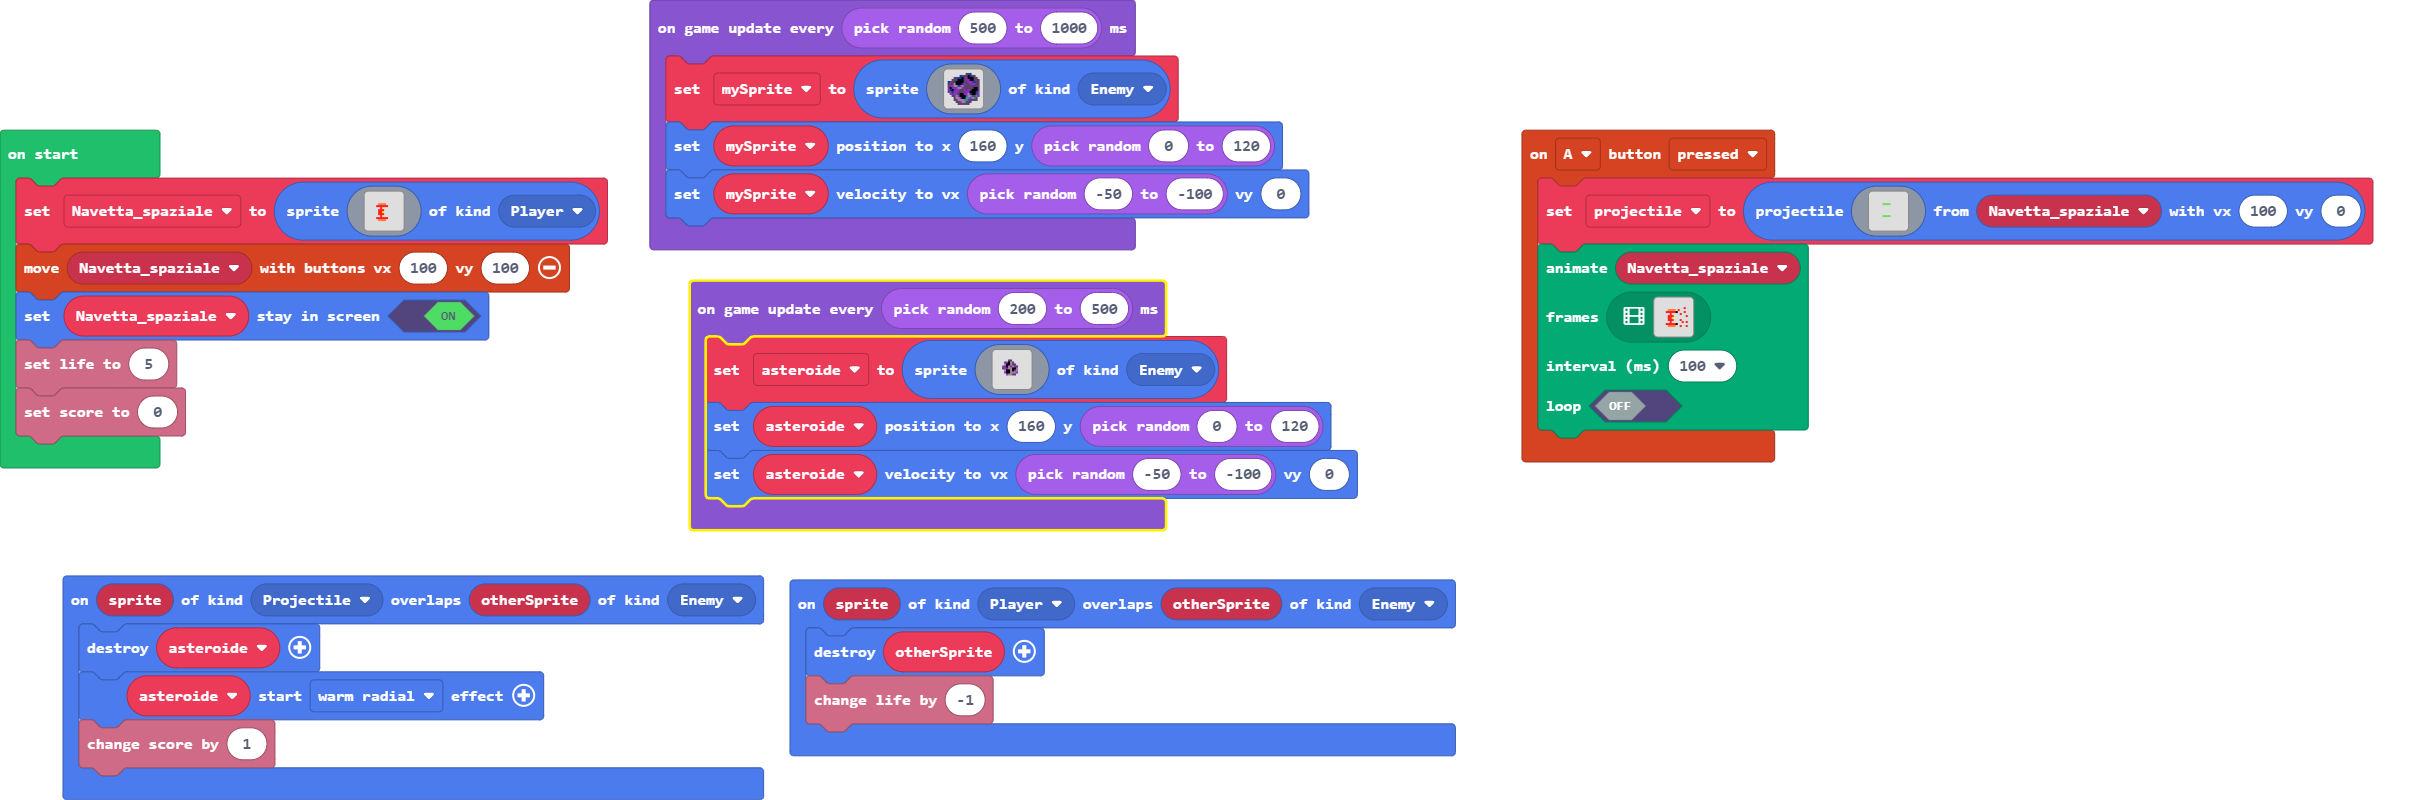
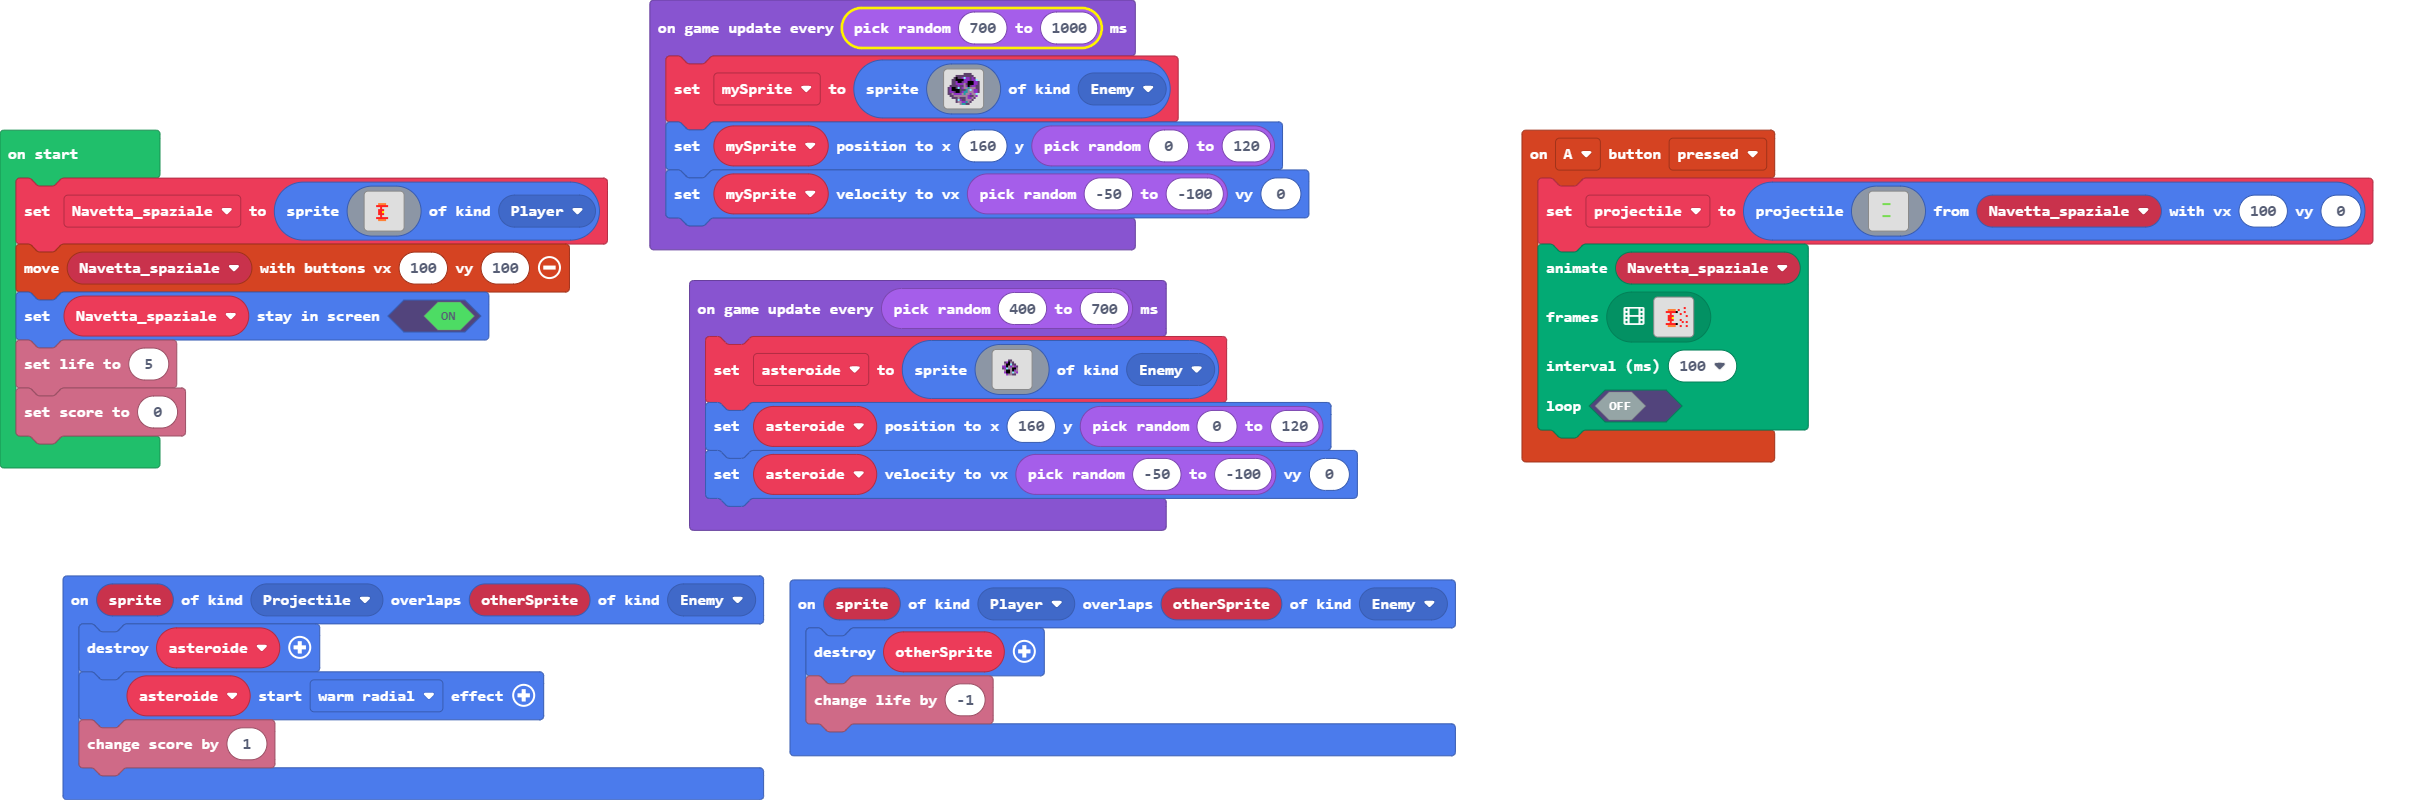
Update main.blocks, main.ts

diff --git a/main.ts b/main.ts
@@ -131,18 +131,18 @@ controller.moveSprite(Navetta_spaziale, 100, 100)
 Navetta_spaziale.setStayInScreen(true)
 info.setLife(5)
 info.setScore(0)
-game.onUpdateInterval(randint(200, 500), function () {
+game.onUpdateInterval(randint(400, 700), function () {
     asteroide = sprites.create(img`
         . . . . . . . . . . . . . . . . 
         . . . . . . . . . . . . . . . . 
         . . . . . . . . . . . . . . . . 
         . . . . . . c c . . . . . . . . 
         . . . . c a f b c . . . . . . . 
-        . . . . b f f b c c . . . . . . 
+        . . . . b f f 9 c c . . . . . . 
         . . . a a f b a b a c . . . . . 
-        . . . c a c b b f f b . . . . . 
+        . . . c a 9 b b f f b . . . . . 
         . . . . b f f b f a b . . . . . 
-        . . . . a f f b b b a . . . . . 
+        . . . . a f f b 9 b a . . . . . 
         . . . . . a b b c c . . . . . . 
         . . . . . . . . . . . . . . . . 
         . . . . . . . . . . . . . . . . 
@@ -153,24 +153,24 @@ game.onUpdateInterval(randint(200, 500), function () {
     asteroide.setPosition(160, randint(0, 120))
     asteroide.setVelocity(randint(-50, -100), 0)
 })
-game.onUpdateInterval(randint(500, 1000), function () {
+game.onUpdateInterval(randint(700, 1000), function () {
     mySprite = sprites.create(img`
-        . . . . . . . . . c c 8 . . . . 
-        . . . . . . 8 c c c f 8 c c . . 
-        . . . c c 8 8 f c a f f f c c . 
-        . . c c c f f f c a a f f c c c 
-        8 c c c f f f f c c a a c 8 c c 
-        c c c b f f f 8 a c c a a a c c 
-        c a a b b 8 a b c c c c c c c c 
-        a f c a a b b a c c c c c f f c 
-        a 8 f c a a c c a c a c f f f c 
-        c a 8 a a c c c c a a f f f 8 a 
-        . a c a a c f f a a b 8 f f c a 
-        . . c c b a f f f a b b c c 6 c 
-        . . . c b b a f f 6 6 a b 6 c . 
-        . . . c c b b b 6 6 a c c c c . 
-        . . . . c c a b b c c c . . . . 
-        . . . . . c c c c c c . . . . . 
+        . . . . . . . . c c c c . . . . 
+        . . . . c c c c c c c c c . . . 
+        . . . c f c c a 9 a a c a c . . 
+        . . c c f f f f a a a c a a 9 . 
+        . . c c a f f c a a f f f a a c 
+        . . c c a a a a b c f f f a a c 
+        . c c c c a c c b a f c a a c c 
+        c a f f c 9 c a b b 6 b b b c c 
+        c a f f f f c c c 6 b 9 b a a c 
+        c a a c f f c a 6 6 b b b a a c 
+        c c b a a a a b 6 b b a b b 9 . 
+        . c c b b b b b b b a c c b a . 
+        . . c c c b c c c b a a b c . . 
+        . . . . c 9 a c c b b b c . . . 
+        . . . . c b b a a 6 b c . . . . 
+        . . . . . . b 6 6 c c . . . . . 
         `, SpriteKind.Enemy)
     mySprite.setPosition(160, randint(0, 120))
     mySprite.setVelocity(randint(-50, -100), 0)
